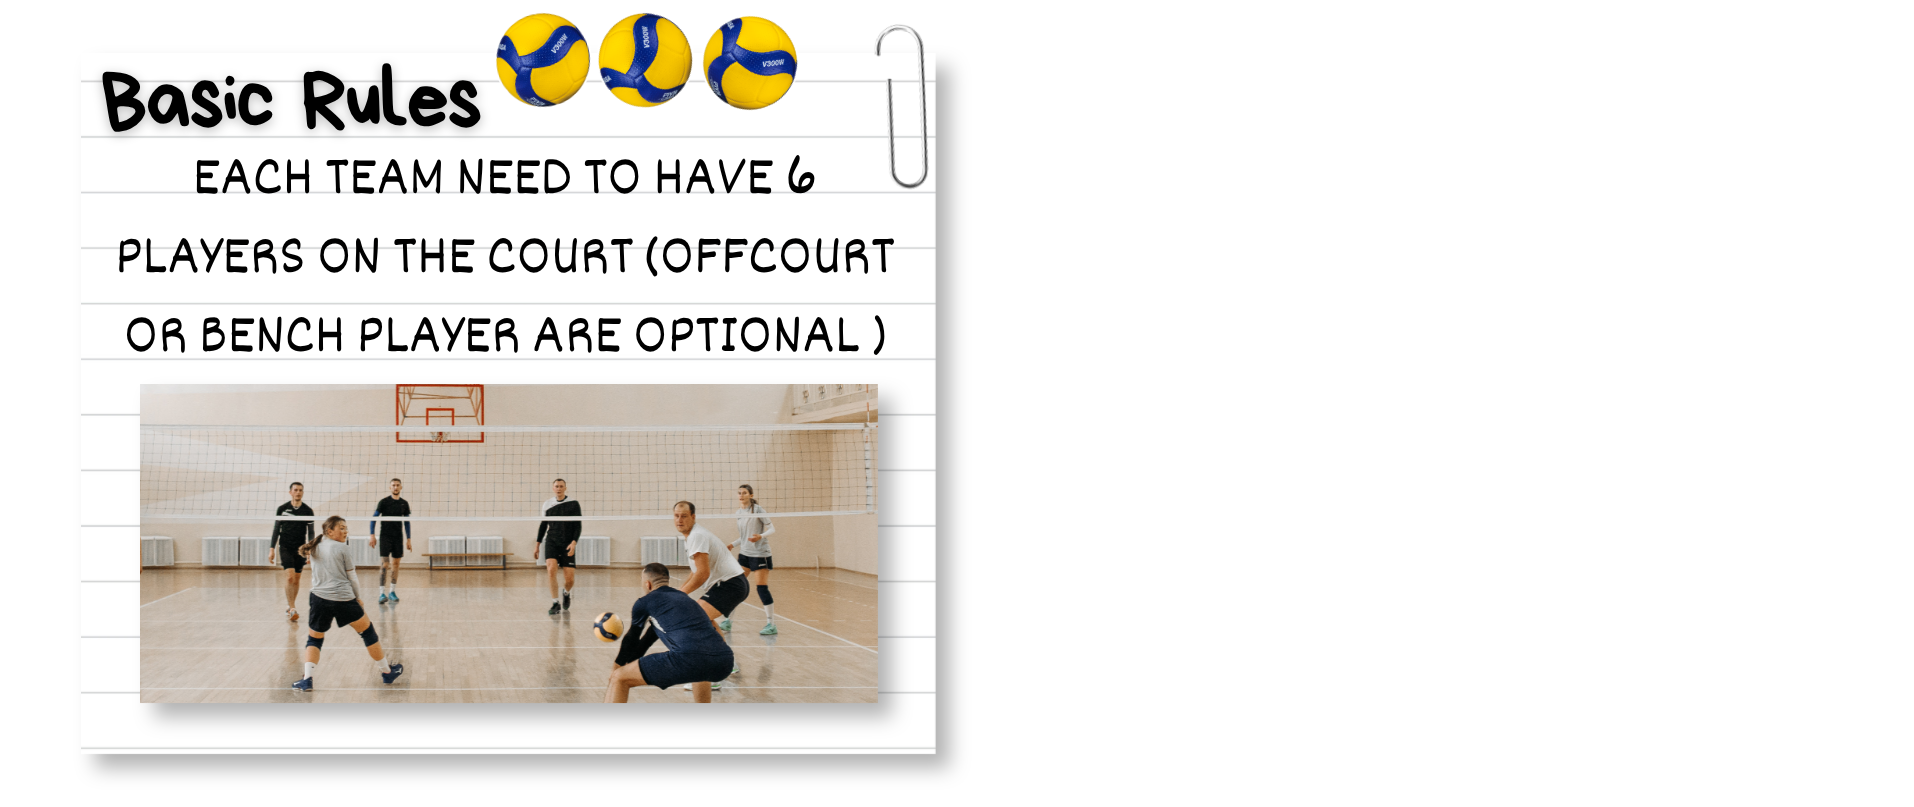
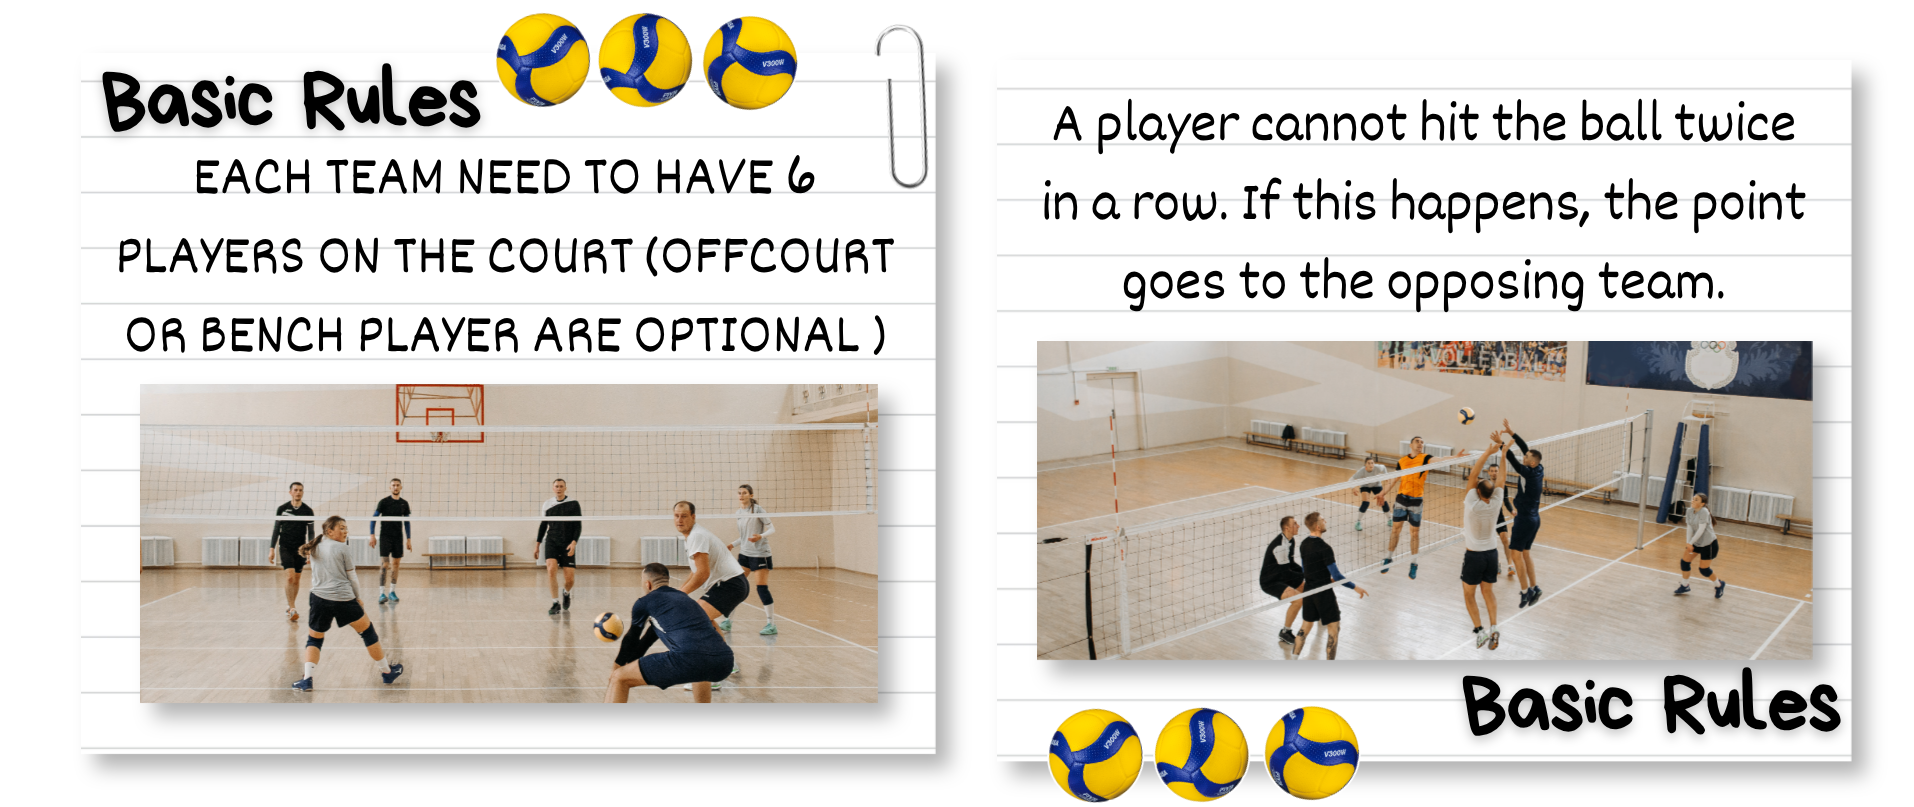
Add files via upload

Changed region(s): [[0.524, 0.0929, 0.9864, 1.0]]

diff --git a/style.css b/style.css
@@ -440,3 +440,72 @@ background-size: cover;
   margin-top: 15px;
   font-size: 14px;
 }
+
+/* Responsive Design */
+@media (max-width: 768px) {
+  .navbar {
+    padding: 10px 15px;
+  }
+  .nav-links {
+    gap: 10px;
+  }
+  .nav-links a {
+    font-size: 1em;
+    margin-left: 15px;
+  }
+  .hero {
+    padding: 100px 15px;
+  }
+  .hero h1 {
+    font-size: 36px;
+  }
+  .hero p {
+    font-size: 18px;
+  }
+  .headline, .content {
+    padding: 100px 15px;
+  }
+  .ball img {
+    width: 200px;
+  }
+  .balls-section {
+    height: 400px;
+  }
+  .balls-section .ball:nth-child(1) { left: 5%; top: 10%; }
+  .balls-section .ball:nth-child(2) { left: 35%; top: 10%; }
+  .balls-section .ball:nth-child(3) { left: 65%; top: 10%; }
+  .balls-section .ball:nth-child(4) { left: 85%; top: 10%; }
+  .book img {
+    width: 90%;
+    max-width: 600px;
+  }
+}
+
+@media (max-width: 480px) {
+  .navbar {
+    flex-direction: column;
+    padding: 10px;
+  }
+  .nav-links {
+    margin-top: 10px;
+  }
+  .hero h1 {
+    font-size: 28px;
+  }
+  .hero p {
+    font-size: 16px;
+  }
+  .ball img {
+    width: 150px;
+  }
+  .balls-section {
+    height: 300px;
+  }
+  .balls-section .ball:nth-child(1) { left: 10%; top: 10%; }
+  .balls-section .ball:nth-child(2) { left: 40%; top: 10%; }
+  .balls-section .ball:nth-child(3) { left: 70%; top: 10%; }
+  .balls-section .ball:nth-child(4) { left: 80%; top: 10%; }
+  .book img {
+    width: 95%;
+  }
+}

diff --git a/rules.css b/rules.css
@@ -63,15 +63,10 @@
     position: absolute;
     width: 1570px;
     top: 20-px;
-    left:-20px;
+    right: 40px;
 }
 
-.overlay1-img {
-    position: absolute;
-    width: 1570px;
-    top: 20px;
-    right: -30px;
-}
+
 
 .content {
     background: url('V3.jpg') no-repeat center top;
@@ -110,12 +105,7 @@
     left:-20px;
 }
 
-.overlay3-img {
-    position: absolute;
-    width: 1570px;
-    top: 10px;
-    right: -30px;
-}
+
 
 .secondary-content {
   background: url('V4.jpg') no-repeat center center;
@@ -156,6 +146,48 @@
 .third-content {
     position: relative;
     height: 100vh;
+}
+
+/* Responsive Design */
+@media (max-width: 768px) {
+  .navbar {
+    padding: 10px 15px;
+  }
+  .hero {
+    padding: 100px 15px;
+  }
+  .hero h1 {
+    font-size: 36px;
+  }
+  .hero p {
+    font-size: 18px;
+  }
+  .headline, .content, .secondary-content, .third-content {
+    padding: 60px 15px;
+  }
+  .overlay-img, .overlay2-img, .overlay4-img {
+    width: 90%;
+    max-width: 90vw;
+    position: static;
+    margin: 0 auto;
+  }
+}
+
+@media (max-width: 480px) {
+  .navbar {
+    flex-direction: column;
+    padding: 10px;
+  }
+  .hero h1 {
+    font-size: 28px;
+  }
+  .hero p {
+    font-size: 16px;
+  }
+  .overlay-img, .overlay2-img, .overlay4-img {
+    width: 95%;
+    max-width: 95vw;
+  }
 }
 
 .overlay5-img {

diff --git a/training.css b/training.css
@@ -269,3 +269,63 @@ width: 100vw;
   left: 100px;
 }
 
+/* Responsive Design */
+@media (max-width: 768px) {
+  .navbar {
+    padding: 10px 15px;
+  }
+  .hero {
+    padding: 100px 15px;
+  }
+  .hero h1 {
+    font-size: 36px;
+  }
+  .hero p {
+    font-size: 18px;
+  }
+  .headline, .content, .secondary-content, .third-content, .fourth-content, .fifth-content {
+    padding: 60px 15px;
+  }
+  .Choo1-img, .Choo2-img, .Choo3-img, .Choo4-img, .overlay1-img, .overlay-img {
+    width: 90%;
+    max-width: 90vw;
+  }
+  .context-content {
+    width: 80%;
+    max-width: 95vw;
+  }
+  .context-img {
+    width: 80%;
+  }
+  .button-img {
+    width: 90vw;
+  }
+}
+
+@media (max-width: 480px) {
+  .navbar {
+    flex-direction: column;
+    padding: 10px;
+  }
+  .hero h1 {
+    font-size: 28px;
+  }
+  .hero p {
+    font-size: 16px;
+  }
+  .Choo1-img, .Choo2-img, .Choo3-img, .Choo4-img, .overlay1-img, .overlay-img {
+    width: 95%;
+    max-width: 95vw;
+  }
+  .context-content {
+    width: 90%;
+    max-width: 98vw;
+  }
+  .context-img {
+    width: 90%;
+  }
+  .button-img {
+    width: 95vw;
+  }
+}
+

diff --git a/position.css b/position.css
@@ -294,3 +294,55 @@ width: 100vw;
   left: 100px;
 }
 
+/* Responsive Design */
+@media (max-width: 768px) {
+  .navbar {
+    padding: 10px 15px;
+  }
+  .hero {
+    padding: 100px 15px;
+  }
+  .hero h1 {
+    font-size: 36px;
+  }
+  .hero p {
+    font-size: 18px;
+  }
+  .headline, .content, .secondary-content, .third-content, .fourth-content, .fifth-content {
+    padding: 60px 15px;
+  }
+  .overlay1-img, .overlay-img {
+    width: 90%;
+    max-width: 90vw;
+  }
+  .context-content {
+    max-width: 95vw;
+  }
+  .button-img {
+    width: 90vw;
+  }
+}
+
+@media (max-width: 480px) {
+  .navbar {
+    flex-direction: column;
+    padding: 10px;
+  }
+  .hero h1 {
+    font-size: 28px;
+  }
+  .hero p {
+    font-size: 16px;
+  }
+  .overlay1-img, .overlay-img {
+    width: 95%;
+    max-width: 95vw;
+  }
+  .context-content {
+    max-width: 98vw;
+  }
+  .button-img {
+    width: 95vw;
+  }
+}
+

diff --git a/skills.css b/skills.css
@@ -285,3 +285,55 @@ width: 100vw;
   top: 3px;
   left: 100px;
 }
+
+/* Responsive Design */
+@media (max-width: 768px) {
+  .navbar {
+    padding: 10px 15px;
+  }
+  .hero {
+    padding: 100px 15px;
+  }
+  .hero h1 {
+    font-size: 36px;
+  }
+  .hero p {
+    font-size: 18px;
+  }
+  .headline, .content, .secondary-content, .third-content, .fourth-content {
+    padding: 60px 15px;
+  }
+  .overlay1-img, .overlay-img {
+    width: 90%;
+    max-width: 90vw;
+  }
+  .context-content {
+    max-width: 95vw;
+  }
+  .button-img {
+    width: 90vw;
+  }
+}
+
+@media (max-width: 480px) {
+  .navbar {
+    flex-direction: column;
+    padding: 10px;
+  }
+  .hero h1 {
+    font-size: 28px;
+  }
+  .hero p {
+    font-size: 16px;
+  }
+  .overlay1-img, .overlay-img {
+    width: 95%;
+    max-width: 95vw;
+  }
+  .context-content {
+    max-width: 98vw;
+  }
+  .button-img {
+    width: 95vw;
+  }
+}

diff --git a/rules.html b/rules.html
@@ -1,7 +1,8 @@
 <!DOCTYPE html>
 <html lang="en">
 <head>
-  <meta charset="UTF-8">
+  <meta name="viewport" content="width=device-width, initial-scale=1.0">
+    <meta charset="UTF-8">
   <title>rules Details</title>
   <link rel="stylesheet" href="style.css">
   <link rel="stylesheet" href="position.css">
@@ -32,15 +33,13 @@
     <section class="headline" id="master">
       <div class="headline-overlay">
         <img src="rules2.png" alt="Rules PNG" class="overlay-img" />
-        <img src="rules3.png" alt="Rules PNG" class="overlay1-img" />
       </div>
     </section>
 
 <!-- CONTENT SECTION -->
  <section class="content" id="content">
   <div class="content-overlay">
-    <img src="rules4.png" alt="Rules PNG" class="overlay2-img"/>
-    <img src="rules5.png" alt="Rules PNG" class="overlay3-img"/>
+    <img src="rules3.png" alt="Rules PNG" class="overlay2-img"/>
   </div>
  </section>
 

diff --git a/position.html b/position.html
@@ -1,7 +1,8 @@
 <!DOCTYPE html>
 <html lang="en">
 <head>
-  <meta charset="UTF-8">
+  <meta name="viewport" content="width=device-width, initial-scale=1.0">
+    <meta charset="UTF-8">
   <title>Position Details</title>
   <link rel="stylesheet" href="style.css">
   <link rel="stylesheet" href="position.css">

diff --git a/training.html b/training.html
@@ -1,7 +1,8 @@
 <!DOCTYPE html>
 <html lang="en">
 <head>
-  <meta charset="UTF-8">
+  <meta name="viewport" content="width=device-width, initial-scale=1.0">
+    <meta charset="UTF-8">
   <title>Training Details</title>
   <link rel="stylesheet" href="style.css">
   <link rel="stylesheet" href="training.css">

diff --git a/skills.html b/skills.html
@@ -1,7 +1,8 @@
 <!DOCTYPE html>
 <html lang="en">
 <head>
-  <meta charset="UTF-8">
+  <meta name="viewport" content="width=device-width, initial-scale=1.0">
+    <meta charset="UTF-8">
   <title>Position Details</title>
   <link rel="stylesheet" href="style.css">
   <link rel="stylesheet" href="skills.css">
